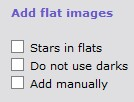
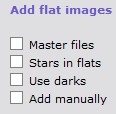
Updates

Changed region(s): [[0.0776, 0.3235, 0.9569, 0.9412], [0.0776, 0.0294, 0.9828, 0.2059]]

diff --git a/ruuth.xyz/ai/AutoIntegrateInfo.html b/ruuth.xyz/ai/AutoIntegrateInfo.html
@@ -107,6 +107,7 @@ https://ruuth.xyz/autointegrate/
   <ul class="toc_list">
   <li><a href="#overview">Overview</a></li>
   <ul class="toc_list">
+    <li><a href="#simple_and_expert_modes">Simple and expert modes</a></li>
     <li><a href="#autointegrate_images">Images created with AutoIntegrate script</a></li>
     <li><a href="#youtube">YouTube videos</a></li>
     <li><a href="#tutorials">Tutorials</a></li>
@@ -123,7 +124,6 @@ https://ruuth.xyz/autointegrate/
     <li><a href="#target_type">Target type</a></li>
     <li><a href="#rgb">Processing RGB files</a></li>
     <li><a href="#narrowband">Processing narrowband files</a></li>
-    <li><a href="#calibration">Image calibration</a></li>
     <li><a href="#flowchart">Processing Flowchart</a></li>
     <li><a href="#startupimage">Startup image</a></li>
     <li><a href="#processinghistory">Embedding processing history</a></li>
@@ -135,6 +135,10 @@ https://ruuth.xyz/autointegrate/
     <li><a href="#sort_and_filter">Sort and filter file lists</a></li>
     <li><a href="#filtering_bad_files">Automatic filtering of bad files</a></li>
     <li><a href="#metricsvisualizer">Metrics visualizer</a></li>
+  </ul>
+  <li><a href="#calibration">Image calibration</a></li>
+  <ul class="toc_list">
+    <li><a href="#calibration_masters">Calibration master files</a></li>
   </ul>
   <li><a href="#processing_settings">Processing settings</a></li>
   <ul class="toc_list">
@@ -224,6 +228,8 @@ https://ruuth.xyz/autointegrate/
 <h3>Latest updates</h3>
 
 <p>
+  <a href="">v1.84 test - Calibration updates</a><br>
+  <a href="https://forums.ruuth.xyz/t/autointegrate-v1-83-simple-and-expert-modes/282">v1.83 - Simple and expert modes</a><br>
   <a href="https://forums.ruuth.xyz/t/autointegrate-v1-82-test-standalone-tools-multiscaleadaptivestretch/279">v1.82 - Standalone tools, MultiscaleAdaptiveStretch</a><br>
   <a href="https://forums.ruuth.xyz/t/autointegrate-v1-81-veralux-hypermetric-stretch/274">v1.81 - VeraLux HyperMetric Stretch</a><br>
   <a href="https://forums.ruuth.xyz/t/autointegrate-v1-80-process-icons/272">v1.80 - Process icons</a><br>
@@ -234,7 +240,6 @@ https://ruuth.xyz/autointegrate/
   <a href="https://forums.ruuth.xyz/t/autointegrate-v1-75-dbe-drizzle-options-flat-dark-calibration/259">v1.75 - DBE, drizzle options, flat dark calibration</a><br>
   <a href="https://forums.ruuth.xyz/t/autointegrate-v1-74-tools-stretching-sharpening/248">v1.74 - Tools, stretching, sharpening</a><br>
   <a href="https://forums.ruuth.xyz/t/autointegrate-v1-73-multiscalegradientcorrection/240">v1.73 - MultiscaleGradientCorrection</a><br>
-  <a href="https://forums.ruuth.xyz/t/autointegrate-v1-72-ha-to-rgb-mapping-true-background/235">v1.72 - Ha to RGB mapping, true background</a><br>
 </p>
 <p>
 For more details on versions see <a href="https://github.com/jarmoruuth/AutoIntegrate/releases">GitHub page</a> or 
@@ -278,6 +283,22 @@ AutoIntegrate works with PixInsight version 1.8.9-1 or later.
 <p>
   AutoIntegrate is available as an automatic update in PixInsight. Repository link is 
   <b>https://ruuth.xyz/autointegrate/</b>
+</p>
+
+<h2 id="simple_and_expert_modes">Simple and expert modes</h2>
+
+<a href="ai_simple_expert_modes.jpg"><img src="ai_simple_expert_modes.jpg"></a>
+
+<p>
+When starting AutoIntegrate for the first time it starts in a simple mode.
+</p>
+<p>
+In the simple mode only the most essential options are shown. This is useful for new users
+who want to get started quickly without being overwhelmed by too many options.
+</p>
+<p>
+To switch to expert mode, click the "Expert" button at the top of the dialog.
+In expert mode all available options are shown.
 </p>
 
 <h2 id="autointegrate_images">Images created with AutoIntegrate script</h2>
@@ -719,49 +740,6 @@ with default settings but Remove green cast and Fix star colors options were che
 <br><small>Thanks to Erik Westermann for providing narrowband data.</small>
 </p>
 
-<h2 id="calibration">Image calibration</h2>
-
-<a href="ai_addfiles.jpg"><img src="ai_addfiles.jpg"></a>
-
-<p>
-Script can do image calibration if needed. Two basic workflows are supported: 
-</p>
-<p>
-<ol>
-<li>Calibrating with bias, darks and flats</li>
-<li>Calibrating with darks, flat darks (or dark flats) and flats</li>
-</ol>
-</p><p>
-If any of the calibration files are not available the script tries to run calibration
-with the remaining files.
-</p><p>
-If there is only one file for bias, dark or flat dark it is assumed to be a master file.
-If you have multiple master files for example for different binning you can give multiple
-master files but in that case option <i>Master files</i> must be checked. When multiple master 
-files are available, the script picks the one with the same resolution.
-</p>
-<a href="ai_imagecalibration.jpg"><img src="ai_imagecalibration.jpg"></a>
-<p>
-In <i>Preprocessing / Image calibration</i> section there are settings
-for pedestal values.
-</p>
-
-<a href="ai_bias.jpg"><img src="ai_bias.jpg"></a>
-<a href="ai_darks.jpg"><img src="ai_darks.jpg"></a>
-<a href="ai_flats.jpg"><img src="ai_flats.jpg"></a>
-<a href="ai_flatdarks.jpg"><img src="ai_flatdarks.jpg"></a>
-
-<p>
-In each files tab there are also some settings for calibration.
-</p>
-  
-<h3 id="youtube_calibration">YouTube video of image calibration</h3>
-
-<p>
-<a href="https://youtu.be/1xHN6rsWYqs">
-<img src="AutoIntegrateCalibrate2.jpg" alt="Video" height="200" >
-</a>
-</p>
 
 <h2 id="flowchart">Processing Flowchart</h2>
 
@@ -1059,6 +1037,14 @@ It is useful for checking how the current settings affect the file list and also
 filtering settings if needed. When the dialog is closed, the file list is updated
 to show the current filtering.
 </p><p>
+Metrics visualizer shows scatter plots for each selected metric. The plots show how the files are distributed
+based on the selected metrics. Each point in the scatter plot represents one file in the file list.
+Files that are accepted based on the current filtering settings are shown  as a colored dot. Files that are 
+rejected are shown as white dots.
+</p><p>
+Filtering values can be updated by changing the values in the limit edit field. Values can updated also by double clicking
+at the scatter plot.
+</p><p>
 Metrics visualizer can be opened from the <i>Preprocessing / Weighting and filtering</i> section or by clicking the
 <i>Metrics visualizer</i> button in the <i>Files</i> tab.
 </p>
@@ -1073,6 +1059,72 @@ Once measurements are done they can be saved to a Json file using the save butto
 Measurements are also saved to the AutosaveSetup.json file. Loading this file will also load the measurements.
 </p>
 
+<hr>
+
+<h1 id="calibration">Image calibration</h1>
+
+<a href="ai_addfiles.jpg"><img src="ai_addfiles.jpg"></a>
+
+<p>
+Script can do image calibration if needed. Two basic workflows are supported: 
+</p>
+<p>
+<ol>
+<li>Calibrating with bias, darks and flats</li>
+<li>Calibrating with darks, flat darks (or dark flats) and flats</li>
+</ol>
+</p><p>
+If any of the calibration files are not available the script tries to run calibration
+with the remaining files.
+</p><p>
+If there is only one file for bias, dark or flat dark it is assumed to be a master file.
+If you have multiple master files for example for different binning or resolution you can give multiple
+master files but in that case option <i>Master files</i> must be checked. When multiple master 
+files are available, the script picks the one with the same resolution.
+</p>
+<a href="ai_imagecalibration.jpg"><img src="ai_imagecalibration.jpg"></a>
+<p>
+In the <i>Preprocessing / Image calibration</i> section there are settings
+for pedestal values.
+</p>
+
+<a href="ai_bias.jpg"><img src="ai_bias.jpg"></a>
+<a href="ai_darks.jpg"><img src="ai_darks.jpg"></a>
+<a href="ai_flats.jpg"><img src="ai_flats.jpg"></a>
+<a href="ai_flatdarks.jpg"><img src="ai_flatdarks.jpg"></a>
+
+<p>
+In each files tab there are also some settings for calibration. Defaults are selected so that they
+should work fine with modern CMOS cameras.
+</p>
+
+<h2 id="calibration_masters">Calibration master files</h2>
+
+<a href="ai_loadmasters.jpg"><img src="ai_loadmasters.jpg"></a>
+
+<p>
+If you have master calibration files available for example from previous processing you can load them in the script
+using the <i>Masters</i> button. With the Masters button you can load all master bias, dark, flat and flat dark files. 
+Files are auto-classified by IMAGETYP keyword and loaded into the correct tabs.
+</p>
+
+<a href="ai_generatemasters.jpg"><img src="ai_generatemasters.jpg"></a>
+
+<p>
+You can generate calibration master files with the script. If you load all bias, dark, flat and flat dark files 
+to the script and run the processing using the option <i>Settings / Generate masters only</i> then master calibration files are 
+generated and saved to the AutoMaster directory. No light files need to be loaded for generating master calibration 
+files. After master files are generated they can be loaded to the script using the <i>Masters</i> button and used 
+for calibrating light files.
+</p>
+
+<h3 id="youtube_calibration">YouTube video of image calibration</h3>
+
+<p>
+<a href="https://youtu.be/1xHN6rsWYqs">
+<img src="AutoIntegrateCalibrate2.jpg" alt="Video" height="200" >
+</a>
+</p>
 
 <hr>
 
@@ -1569,6 +1621,22 @@ A separate <i>RGB stars</i> section has an <i>RGB stars</i> option that is used 
 For more details see the <a href="#narrowband_rgbstars">RGB stars for narrowband images</a> 
 in the Narrowband specific settings section.
 </p>
+
+<h4>Steps to remove stars.</h4>
+
+<ul>
+<li>In the <i>Tools</i> / <i>Settings</i> section choose either StarXTerminator or StarNet2 for star removal.</li>
+<li>In the <i>Postprocessing</i> / <i>Star stretching and removing</i> section select when to remove stars.</li>
+<li>Run a normal processing.</li>
+</ul>
+
+In the end there are three images.
+
+<ul>
+<li>AutoRGB has stars being added back.</li>
+<li>AutoRGB_starless is the starless image.</li>
+<li>AutoRGB_stars is the star image.</li>
+</ul>
 
 <h4>Remove stars from channel images</h4>
 
@@ -2895,6 +2963,9 @@ of that code that works with the latest AutoIntegrate version.
 <p>
 Special thanks to Norman Hamann, Garth Hunt, Erik Westermann, Glenn Newell and Jari Backman for 
 new ideas and testing different versions of the script.
+</p>
+<p>
+Thanks to Ric Anderson for pointing the banding reduction performance problem.
 </p>
 <p>
 Thanks to Erik Westermann for doing a great work on documenting the script in his web site 

diff --git a/ruuth.xyz/am/AstroMosaicInfo.html b/ruuth.xyz/am/AstroMosaicInfo.html
@@ -104,7 +104,7 @@ gtag('config', 'G-FV9GG7V9PM');
         <li>A panel view to show multiple catalog objects</li>
         <li>Optionally catalog objects can be sorted by altitude</li>
         <li>Wiki interface to show target information</li>
-        <li>Messier, NGC, IC, Sharpless, RCW, LDN, LBN, Barnard, Cederblad, Slooh 500, Simbad and NED catalog names on a map (optional)</li>
+        <li>Messier, Caldwell, NGC, IC, Sharpless, RCW, LDN, LBN, Barnard, Cederblad, Slooh 500, Simbad and NED catalog names on a map (optional)</li>
         <li>Object markers are clickable and print short info or a Wiki page</li>
         <li>Full screen control to show a bigger view of the map</li>
         <li>Control to change the map view</li>
@@ -125,12 +125,18 @@ gtag('config', 'G-FV9GG7V9PM');
       Direct links to telescope services are below.
     </p>
     <ul>
+      <li><a href="https://ruuth.xyz/AstroMosaic.html?service=RoboScopes">https://ruuth.xyz/AstroMosaic.html?service=RoboScopes</a></li>
       <li><a href="https://ruuth.xyz/AstroMosaic.html?service=Telescope%20Live">https://ruuth.xyz/AstroMosaic.html?service=Telescope%20Live</a></li>
       <li><a href="https://ruuth.xyz/AstroMosaic.html?service=Slooh">https://ruuth.xyz/AstroMosaic.html?service=Slooh</a></li>
-      <li><a href="https://ruuth.xyz/AstroMosaic.html?service=RoboScopes">https://ruuth.xyz/AstroMosaic.html?service=RoboScopes</a></li>
       <li><a href="https://ruuth.xyz/AstroMosaic.html?service=SkyGems">https://ruuth.xyz/AstroMosaic.html?service=SkyGems</a></li>
       <li><a href="https://ruuth.xyz/AstroMosaic.html?service=Hubble">https://ruuth.xyz/AstroMosaic.html?service=Hubble</a></li>
       <li><a href="https://ruuth.xyz/AstroMosaic.html?service=JWST">https://ruuth.xyz/AstroMosaic.html?service=JWST</a></li>
+      </ul>
+
+    <p>
+      Direct links to smart telescopes are below.
+    </p>
+    <ul>
       <li><a href="https://ruuth.xyz/AstroMosaic.html?service=Seestar">https://ruuth.xyz/AstroMosaic.html?service=Seestar</a></li>
       <li><a href="https://ruuth.xyz/AstroMosaic.html?service=Vaonis">https://ruuth.xyz/AstroMosaic.html?service=Vaonis</a></li>
       </ul>
@@ -188,6 +194,7 @@ gtag('config', 'G-FV9GG7V9PM');
     </p>
     <ul>
       <li>Messier</li>
+      <li>Caldwell</li>
       <li>NGC</li>
       <li>IC</li>
       <li>Sharpless</li>
@@ -220,15 +227,17 @@ gtag('config', 'G-FV9GG7V9PM');
       It is possible to filter catalog lists in a few ways.
     </p><p>
       <ul>
-      <li>First filter is altitude where you decide how high the target needs to be during the night to be shown in the list.</li>
-      <li>Then it is possible to filter by time. If there is for example only a specific time slot available the time filter 
-      can be used to show what other filter conditions are met at that specific time.</li>
-      <li>With a moon filter it is possible to show only those targets that have at least the given distance from the moon. 
-      If the moon is up it can be useful for example to pick only targets that are at least 90 degrees from the moon.</li>
+      <li>Altitude - Show only catalog objects that are higher than selected altitude.</li>
+      <li>Time - Show only catalog objects that are visible at selected time. The time format is HH:MM. Multiple times can be given separated by comma like HH:MM,HH:MM. When multiple times are given all times must match the altitude filter.</li>
+      <li>Moon - Show only catalog objects that are further away from the moon than selected angle. If no time is selected then objects are included if at any point during the night they match the filter.</li>
+      <li>Rising - Show only catalog objects whose altitude is rising (increasing) over the selected number of weeks. Rising objects will be at a higher altitude at the same time on future dates.</li>
+      <li>Magnitde - Show only catalog objects that have higher magnitude than selected magnitude. NOTE! Not many objects have the magnitude info available.</li>
+      <li>Size - Show only catalog objects that are larger than the selected size in arcminutes. NOTE! Some objects do not have the size info available.</li>
+      <li>Type - Show only catalog objects whose type contains the entered text. The match is case-insensitive and partial.</li>
     </ul>
     </p><p>
-      Filtering points are calculated at midnight and then two and four hours before and after midnight. So in some cases 
-      it is possible that a target is not listed if it will match the filter only between those calculated points.
+      If no time is given then filtering points are calculated at midnight and then two and four hours before and after midnight. 
+      So in some cases it is possible that a target is not listed if it will match the filter only between those calculated points.
     </p>
 
     <h3>Sorting catalog list</h3>
